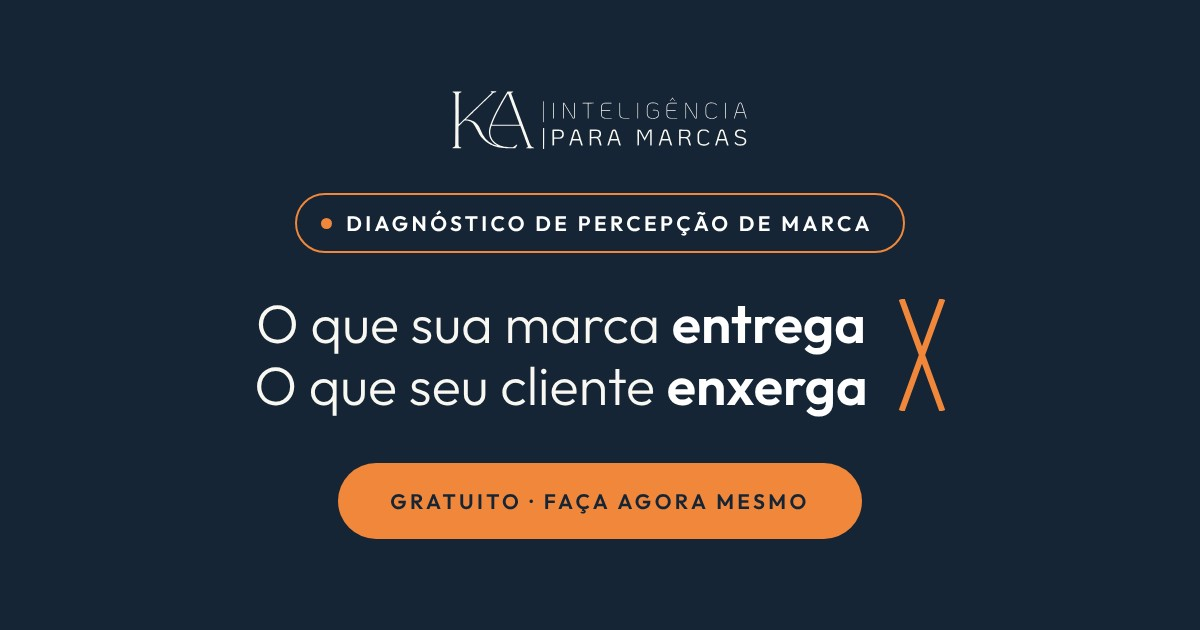
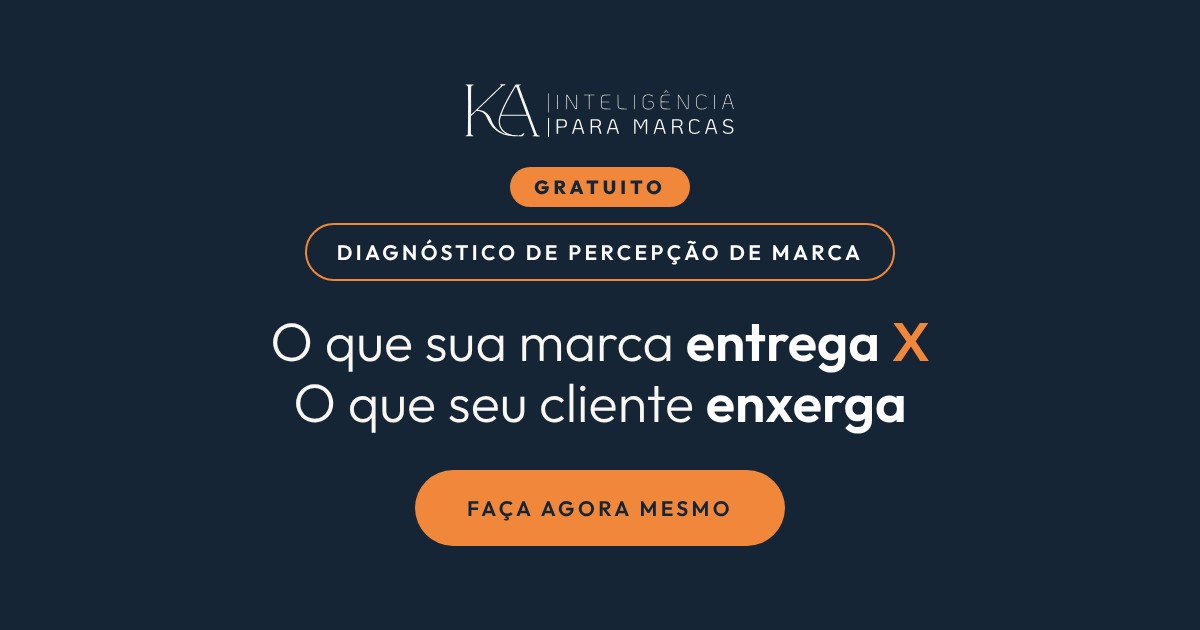
valorpercebido: selo Gratuito em destaque, sem bolinha, X laranja no fim da primeira linha (página e imagem do link)
Claude-Session: https://claude.ai/code/session_01PjK521SeMZL3RRFdUoZ8AN

Changed region(s): [[0.2467, 0.1206, 0.7708, 0.4524], [0.2158, 0.4825, 0.8017, 0.6937], [0.2775, 0.7238, 0.74, 0.8746]]

diff --git a/valorpercebido/index.html b/valorpercebido/index.html
@@ -7,8 +7,8 @@
 <meta property="og:title" content="Diagnóstico de Percepção de Marca · O que sua marca entrega × O que seu cliente enxerga">
 <meta property="og:description" content="Gratuito, 11 perguntas e 5 minutos. Descubra a distância entre o valor real e o valor percebido da sua marca e receba o resultado na hora.">
 <meta property="og:site_name" content="KA | Inteligência para Marcas">
-<meta property="og:image" content="https://kellyalbert.com.br/images/og/og-valorpercebido.jpg?v=7">
-<meta property="og:image:secure_url" content="https://kellyalbert.com.br/images/og/og-valorpercebido.jpg?v=7">
+<meta property="og:image" content="https://kellyalbert.com.br/images/og/og-valorpercebido.jpg?v=8">
+<meta property="og:image:secure_url" content="https://kellyalbert.com.br/images/og/og-valorpercebido.jpg?v=8">
 <meta property="og:image:type" content="image/jpeg">
 <meta property="og:image:width" content="1200">
 <meta property="og:image:height" content="630">
@@ -16,7 +16,7 @@
 <meta property="og:url" content="https://kellyalbert.com.br/valorpercebido/">
 <meta property="og:locale" content="pt_BR">
 <meta name="twitter:card" content="summary_large_image">
-<meta name="twitter:image" content="https://kellyalbert.com.br/images/og/og-valorpercebido.jpg?v=7">
+<meta name="twitter:image" content="https://kellyalbert.com.br/images/og/og-valorpercebido.jpg?v=8">
 <meta name="theme-color" content="#152535">
 <link rel="icon" type="image/x-icon" href="/favicon.ico">
 <link rel="icon" type="image/png" sizes="32x32" href="/images/favicon-32x32.png">
@@ -67,7 +67,11 @@ button,input{font-family:inherit}
 .topo__x{flex:none;align-self:flex-start;width:.9em;height:1.88em;margin-top:.26em;overflow:visible}
 .topo__x path{stroke:var(--laranja);stroke-width:5.5;stroke-linecap:butt;fill:none;vector-effect:non-scaling-stroke}
 .topo .rotulo::before{display:none}
-@media (max-width:420px){.topo .rotulo{font-size:.7rem;letter-spacing:.1em;padding:9px 16px 9px 13px}}
+.gratis{display:inline-block;margin-bottom:12px;padding:6px 16px;border-radius:100px;background:var(--laranja);color:var(--marinho);font-size:.8rem;font-weight:800;letter-spacing:.22em;text-transform:uppercase}
+.topo .rotulo{padding:9px 20px}
+.topo__titulo{display:grid;justify-items:center;gap:0}
+.topo__x2{color:var(--laranja);font-weight:600}
+@media (max-width:420px){.topo .rotulo{font-size:.7rem;letter-spacing:.1em;padding:9px 16px}}
 
 /* Cabeçalho do chat */
 .chat{flex:1;display:flex;flex-direction:column;background:rgba(34,58,82,.35);border:1px solid var(--papel-08);border-radius:22px;overflow:hidden;margin-bottom:16px;min-height:62vh}
@@ -233,9 +237,10 @@ button,input{font-family:inherit}
 
 <main class="app">
   <header class="topo">
-    <span class="rotulo"><i aria-hidden="true"></i>Diagnóstico de Percepção de Marca</span>
-    <h1 class="topo__titulo"><span class="topo__linhas"><span class="topo__linha">O que sua marca <b>entrega</b></span><span class="topo__linha">O que seu cliente <b>enxerga</b></span></span><svg class="topo__x" viewBox="0 0 40 100" preserveAspectRatio="none" aria-hidden="true"><path d="M3 0L37 100M37 0L3 100"/></svg></h1>
-    <p class="topo__sub">Gratuito · Resultado na hora</p>
+    <span class="gratis">Gratuito</span>
+    <span class="rotulo">Diagnóstico de Percepção de Marca</span>
+    <h1 class="topo__titulo"><span class="topo__linha">O que sua marca <b>entrega</b> <span class="topo__x2" aria-label="versus">X</span></span><span class="topo__linha">O que seu cliente <b>enxerga</b></span></h1>
+    <p class="topo__sub">Resultado na hora</p>
   </header>
 
   <section class="chat" aria-label="Diagnóstico de Percepção de Marca">
